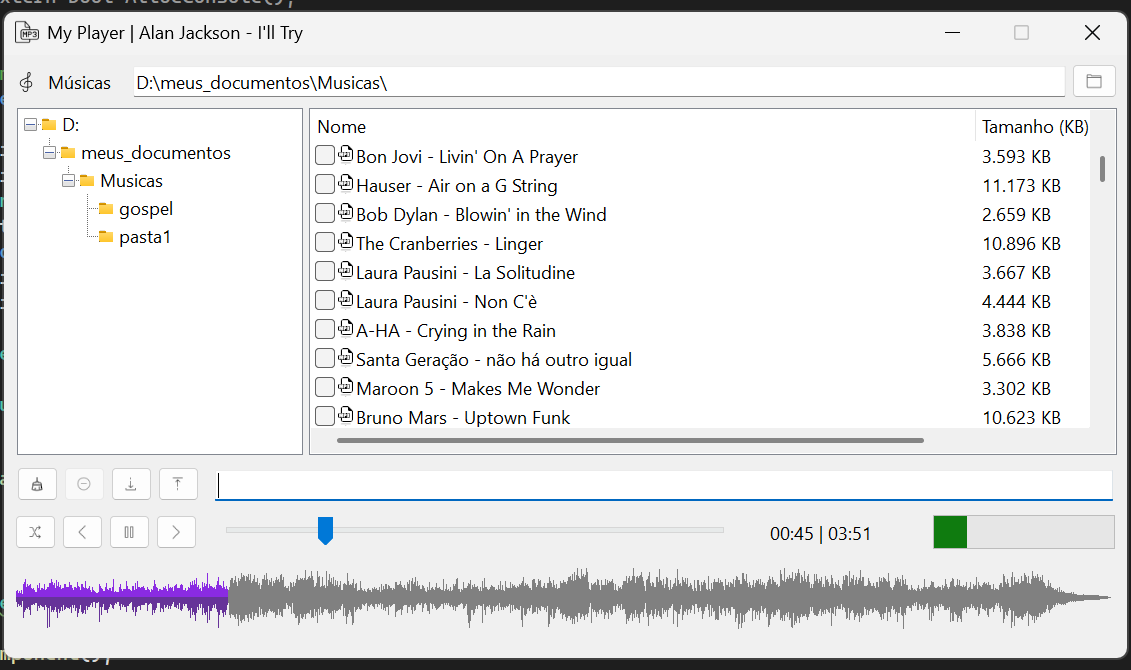
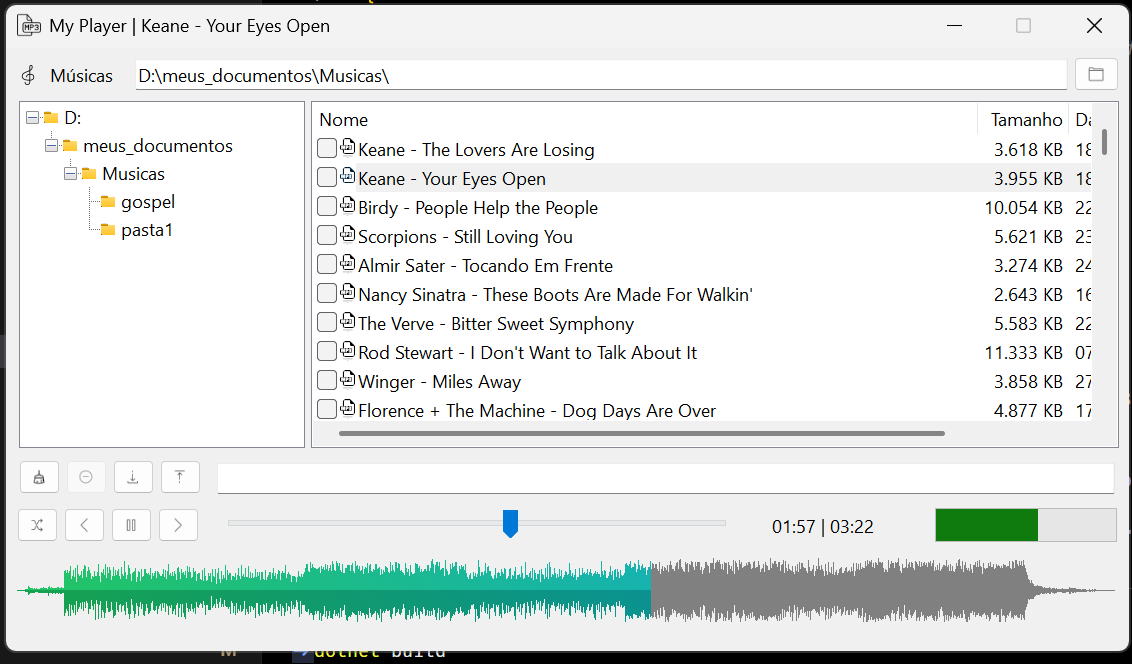
correções, wave bar gradient

Changed region(s): [[0.0, 0.0, 1.0, 1.0], [0.6808, 0.7831, 0.7737, 0.8133]]

diff --git a/MyPlayer/classes/waveimage/WaveImage.cs b/MyPlayer/classes/waveimage/WaveImage.cs
@@ -1,5 +1,7 @@
 using NAudio.Wave;
 using NAudio.WaveFormRenderer;
+using System.Drawing;
+using System.Drawing.Drawing2D;
 
 namespace MyPlayer.classes.waveimage
 {
@@ -9,13 +11,20 @@ namespace MyPlayer.classes.waveimage
     internal class WaveImage : IDisposable
     {
 
-        private WaveFormRenderer waveFormRenderer;
+        private WaveFormRenderer? waveFormRenderer;
         private Image? image;
-        private AudioFileReader audioFile;
+        private AudioFileReader? audioFile;
         private readonly Form frm;
 
-        private readonly Color cor1 = Color.BlueViolet; //Color.DarkGreen
-        private readonly Color cor2 = Color.RebeccaPurple; //Color.Green
+        // --primary-color: #0ea5e9 (14, 165, 233)
+        private readonly Color primaryColor = Color.FromArgb(14, 165, 233);
+        // --secondary-color: #22c55e (34, 197, 94)
+        private readonly Color secondaryColor = Color.FromArgb(34, 197, 94);
+
+        // --primary-dark: #0284c7 (2, 132, 199)
+        private readonly Color primaryDarkColor = Color.FromArgb(2, 132, 199);
+        // --secondary-dark: #16a34a (22, 163, 74)
+        private readonly Color secondaryDarkColor = Color.FromArgb(22, 163, 74);
 
         private int tHeigth;
         private int bHeigth;
@@ -55,8 +64,17 @@ namespace MyPlayer.classes.waveimage
             settings.Width = (int)width;
             settings.DecibelScale = false;
             settings.BackgroundColor = Color.Transparent;
-            settings.TopPeakPen = new Pen(cor1);
-            settings.BottomPeakPen = new Pen(cor2);
+
+            Rectangle brushRect = new Rectangle(0, 0, width, tHeigth + bHeigth);
+            
+            // Gradiente Superior (Cores Normais)
+            LinearGradientBrush topGradientBrush = new LinearGradientBrush(brushRect, primaryColor, secondaryColor, 135f);
+            
+            // Gradiente Inferior (Cores Escuras)
+            LinearGradientBrush bottomGradientBrush = new LinearGradientBrush(brushRect, primaryDarkColor, secondaryDarkColor, 135f);
+
+            settings.TopPeakPen = new Pen(topGradientBrush);
+            settings.BottomPeakPen = new Pen(bottomGradientBrush);
             //if (imageFile != null) { settings.BackgroundImage = new Bitmap(imageFile); }
             return settings;
         }
@@ -75,7 +93,7 @@ namespace MyPlayer.classes.waveimage
                     Image? image = null;
                     try
                     {
-                        image = waveFormRenderer.Render(ar, peakProvider, settings);
+                        image = waveFormRenderer?.Render(ar, peakProvider, settings);
                     }
                     catch (Exception e)
                     {
@@ -153,9 +171,8 @@ namespace MyPlayer.classes.waveimage
         {
             if (audioFile == null || e == null || image == null || image.Width <= 0) { return; }
             MouseEventArgs me = (MouseEventArgs)e;
-            if (me == null || me.Location == null) { return; }
+            if (me == null) { return; }
             Point coordinates = me.Location;
-            if (coordinates == null) { return; }
 
             double position = (coordinates.X * audioFile.Length) / image.Width;
             audioFile.Position = Math.Min(audioFile.Length, Convert.ToInt64(position));

diff --git a/MyPlayer/frmMyPlayer.cs b/MyPlayer/frmMyPlayer.cs
@@ -28,7 +28,7 @@ namespace MyPlayer
         private bool _skipToPrevious = false;
         private PlayerControl? _playerControl;
         private bool listViewDblClick = false;
-        private const bool PermitirSystray = false;
+        private static readonly bool PermitirSystray = false;
         private bool _skipStopAnaliseMusica = false;
         private bool _skipPlayMusica = false;
 
@@ -285,7 +285,7 @@ namespace MyPlayer
             // Coletamos as tags (caminhos) das músicas marcadas para remover do estado
             var caminhosParaRemover = listView1.CheckedItems
                 .Cast<ListViewItem>()
-                .Select(x => x.Tag.ToString())
+                .Select(x => x.Tag?.ToString())
                 .ToList();
 
             // 1. Remove da tela
@@ -295,7 +295,10 @@ namespace MyPlayer
             }
 
             // 2. Remove do objeto de estado (o que vai para o JSON)
-            _estadoAtual.Musicas.RemoveAll(m => caminhosParaRemover.Contains(m.Tag));
+            if (_estadoAtual.Musicas != null)
+            {
+                _estadoAtual.Musicas.RemoveAll(m => caminhosParaRemover.Contains(m.Tag));
+            }
 
             listView1.EndUpdate();
 

diff --git a/MyPlayer/classes/controleestados/ControleEstados.cs b/MyPlayer/classes/controleestados/ControleEstados.cs
@@ -61,11 +61,11 @@ namespace MyPlayer.classes.controleestados
 
         private class SerializableFormularioEstado
         {
-            public string MusicPath { get; set; }
+            public string MusicPath { get; set; } = string.Empty;
             public int IndiceMusica { get; set; }
             public int View { get; set; }
-            public List<int> ColumnWidths { get; set; }
-            public List<MusicaDTO> Musicas { get; set; }
+            public List<int> ColumnWidths { get; set; } = new();
+            public List<MusicaDTO> Musicas { get; set; } = new();
         }
 
     }

diff --git a/MyPlayer/classes/player/MusicControl.cs b/MyPlayer/classes/player/MusicControl.cs
@@ -116,7 +116,7 @@ namespace MyPlayer.classes.player
 
             if (!IsValid) { return; }
             if (_waveOutEvent != null) _waveOutEvent.Stop();
-            try { if (AudioFile != null && AudioFile.Position != null) AudioFile.Position = 0; } catch (Exception) { }
+            try { if (AudioFile != null) AudioFile.Position = 0; } catch (Exception) { }
 
             EvtStop?.Invoke(this, EventArgs.Empty);
         }
